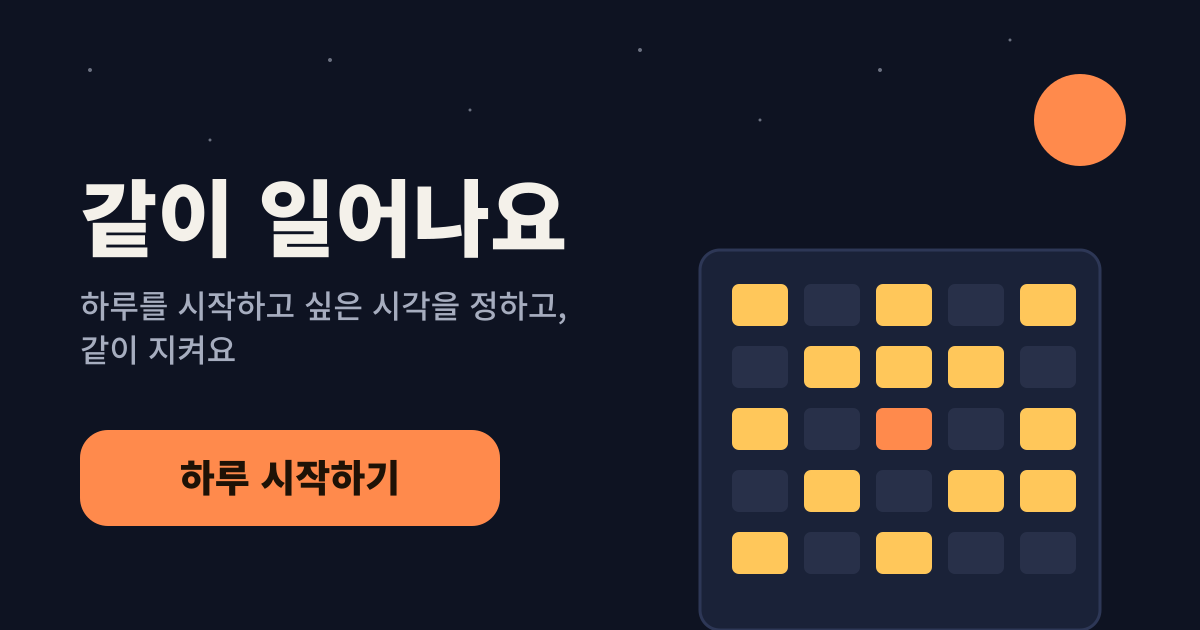
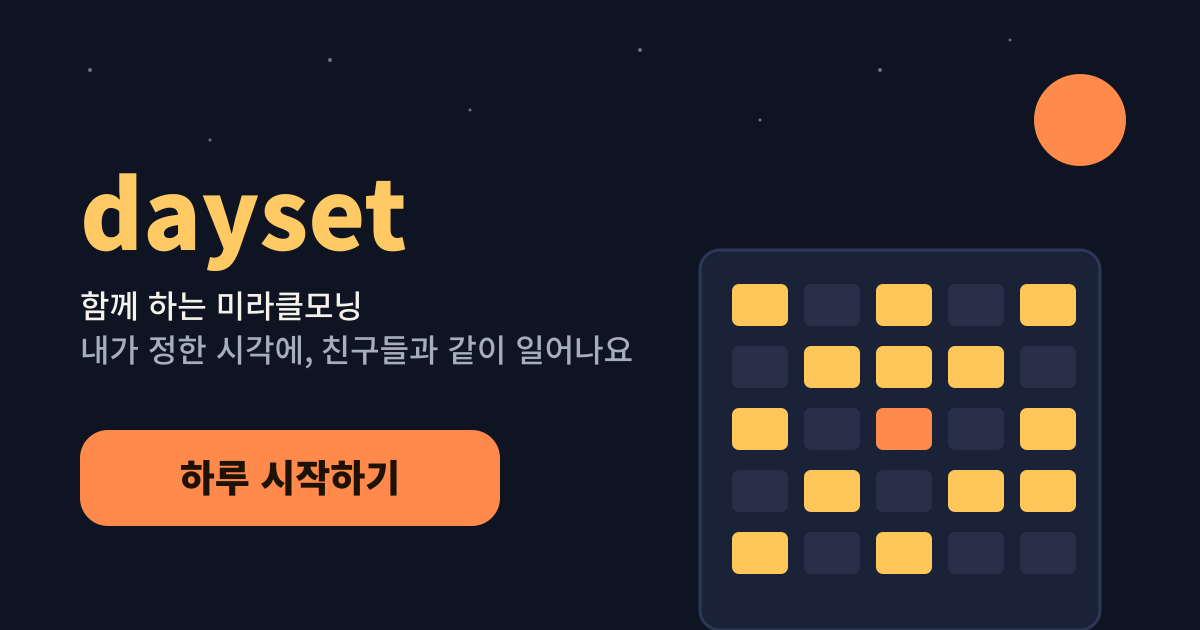
v0.11.1 브랜드: dayset - 함께 하는 미라클모닝
- 앱 제목·헤더·홈 화면 이름·공유 이미지·캘린더 알림·OG 이미지를 dayset으로
- 첫 화면에 브랜드와 한 줄 소개
- 약관·처리방침 서비스 이름 변경

Claude-Session: https://claude.ai/code/session_01YBKJpLSU4wiyWy3KokJMAZ

Changed region(s): [[0.0617, 0.2714, 0.5242, 0.6032]]

diff --git a/docs/index.html b/docs/index.html
@@ -4,12 +4,12 @@
 <meta charset="utf-8">
 <meta name="viewport" content="width=device-width, initial-scale=1">
 <meta name="theme-color" content="#0E1422">
-<meta name="description" content="하루를 시작하고 싶은 시각을 정하고, 같이 지켜요.">
-<title>같이 일어나요</title>
+<meta name="description" content="dayset · 함께 하는 미라클모닝. 내가 정한 시각에 하루를 시작하고, 친구들과 창문을 켜요.">
+<title>dayset · 함께 하는 미라클모닝</title>
 <script>window.GACHI_SITE_URL = "https://jmingyu2006-ship-it.github.io/gachi-wake/";</script>
 <meta property="og:type" content="website">
-<meta property="og:title" content="같이 일어나요">
-<meta property="og:description" content="하루를 시작하고 싶은 시각을 정하고, 같이 지켜요. 지금 몇 명의 창문에 불이 켜졌는지 보세요.">
+<meta property="og:title" content="dayset · 함께 하는 미라클모닝">
+<meta property="og:description" content="내가 정한 시각에 하루를 시작하고, 친구들과 창문을 켜요. 지금 몇 명의 창문에 불이 켜졌는지 보세요.">
 <meta property="og:url" content="https://jmingyu2006-ship-it.github.io/gachi-wake/">
 <meta property="og:image" content="https://jmingyu2006-ship-it.github.io/gachi-wake/og.png">
 <meta property="og:image:width" content="1200">
@@ -20,7 +20,7 @@
 <link rel="apple-touch-icon" href="icons/apple-touch-icon.png">
 <meta name="apple-mobile-web-app-capable" content="yes">
 <meta name="mobile-web-app-capable" content="yes">
-<meta name="apple-mobile-web-app-title" content="같이 일어나요">
+<meta name="apple-mobile-web-app-title" content="dayset">
 <meta name="apple-mobile-web-app-status-bar-style" content="black-translucent">
 <script src="config.js"></script>
 <link rel="preconnect" href="https://cdn.jsdelivr.net" crossorigin>
@@ -382,6 +382,8 @@
   header { min-height: 56px; align-items: flex-start; padding-top: 6px; }
   .brand { font-size: 21px; font-weight: 700; letter-spacing: -0.5px; }
   .brand small { font-size: 12.5px; margin-top: 3px; }
+  .ob-brand { font-size: 22px; font-weight: 800; letter-spacing: -0.6px; color: var(--lit); }
+  .ob-brand small { display: block; font-size: 13px; font-weight: 500; letter-spacing: 0; color: var(--muted); margin-top: 2px; }
   .icon-btn { border: none; background: transparent; width: 44px; height: 44px; margin-right: -10px; color: var(--ink); }
   main { gap: 16px; padding: 14px 0 20px; }
   .card { border: none; border-radius: 18px; padding: 18px; }
@@ -534,7 +536,7 @@
 <body>
 <div class="app">
   <header>
-    <div class="brand"><span id="brandTitle">같이 일어나요</span><small id="date"></small></div>
+    <div class="brand"><span id="brandTitle">dayset</span><small id="date"></small></div>
     <button type="button" class="icon-btn" id="openSettings" aria-label="설정 열기">
       <svg width="22" height="22" viewBox="0 0 24 24" fill="none" stroke="currentColor" stroke-width="1.8" stroke-linecap="round" aria-hidden="true"><circle cx="12" cy="12" r="3"/><path d="M19.4 15a1.7 1.7 0 0 0 .3 1.8l.1.1a2 2 0 1 1-2.8 2.8l-.1-.1a1.7 1.7 0 0 0-1.8-.3 1.7 1.7 0 0 0-1 1.5V21a2 2 0 1 1-4 0v-.1a1.7 1.7 0 0 0-1.1-1.5 1.7 1.7 0 0 0-1.8.3l-.1.1a2 2 0 1 1-2.8-2.8l.1-.1a1.7 1.7 0 0 0 .3-1.8 1.7 1.7 0 0 0-1.5-1H3a2 2 0 1 1 0-4h.1a1.7 1.7 0 0 0 1.5-1.1 1.7 1.7 0 0 0-.3-1.8l-.1-.1a2 2 0 1 1 2.8-2.8l.1.1a1.7 1.7 0 0 0 1.8.3H9a1.7 1.7 0 0 0 1-1.5V3a2 2 0 1 1 4 0v.1a1.7 1.7 0 0 0 1 1.5 1.7 1.7 0 0 0 1.8-.3l.1-.1a2 2 0 1 1 2.8 2.8l-.1.1a1.7 1.7 0 0 0-.3 1.8V9a1.7 1.7 0 0 0 1.5 1H21a2 2 0 1 1 0 4h-.1a1.7 1.7 0 0 0-1.5 1z"/></svg>
     </button>
@@ -1168,13 +1170,13 @@
   function icsStamp(key, min) { return key.replace(/-/g, '') + 'T' + pad2(Math.floor(min / 60)) + pad2(min % 60) + '00'; }
   function reminderIcs(s, fromKey, site, nowIso) {
     var stamp = String(nowIso || '').replace(/[-:]/g, '').replace(/\.\d+/, '').slice(0, 15) + 'Z';
-    var L = ['BEGIN:VCALENDAR', 'VERSION:2.0', 'PRODID:-//gachi-wake//ko', 'CALSCALE:GREGORIAN', 'METHOD:PUBLISH', 'X-WR-CALNAME:같이 일어나요'];
+    var L = ['BEGIN:VCALENDAR', 'VERSION:2.0', 'PRODID:-//gachi-wake//ko', 'CALSCALE:GREGORIAN', 'METHOD:PUBLISH', 'X-WR-CALNAME:dayset'];
     reminderStages(s, fromKey).forEach(function (g, i) {
       L.push('BEGIN:VEVENT', 'UID:gachi-wake-morning-' + i + '@gachi-wake', 'DTSTAMP:' + stamp,
         'DTSTART:' + icsStamp(g.start, g.min), 'DURATION:PT10M',
         'RRULE:FREQ=' + (byDay(s) ? 'WEEKLY;BYDAY=' + byDay(s) : 'DAILY') + (g.forever ? '' : ';COUNT=' + g.days),
         'SUMMARY:☀ 하루 시작 기록하기 · ' + formatMinute(g.min),
-        'DESCRIPTION:일어났으면 같이 일어나요에서 \'하루 시작하기\'를 눌러요.',
+        'DESCRIPTION:일어났으면 dayset에서 \'하루 시작\'을 눌러요.',
         site ? 'URL:' + site : 'X-NO-URL:1', 'TRANSP:TRANSPARENT',
         'BEGIN:VALARM', 'ACTION:DISPLAY', 'TRIGGER:PT0M', 'DESCRIPTION:☀ 하루 시작 기록하기', 'END:VALARM', 'END:VEVENT');
     });
@@ -1187,7 +1189,7 @@
     return 'https://calendar.google.com/calendar/render?action=TEMPLATE' +
       '&text=' + encodeURIComponent('☀ 하루 시작 기록하기') +
       '&dates=' + a + '/' + b + '&ctz=Asia%2FSeoul&recur=' + encodeURIComponent(byDay(s) ? 'RRULE:FREQ=WEEKLY;BYDAY=' + byDay(s) : 'RRULE:FREQ=DAILY') +
-      '&details=' + encodeURIComponent('일어났으면 같이 일어나요에서 \'하루 시작하기\'를 눌러요.' + (site ? '\n' + site : ''));
+      '&details=' + encodeURIComponent('일어났으면 dayset에서 \'하루 시작\'을 눌러요.' + (site ? '\n' + site : ''));
   }
   function reminderSig(s) { return s ? [s.baselineMin, s.targetMin, s.planStart, s.cur, (s.days || []).join('')].join('|') : ''; }
 
@@ -1370,7 +1372,7 @@
     crowd: null, crowdDay: null, serverOk: null, clearArmed: false, saving: Promise.resolve(), ob: null, edit: null,
     rooms: [], view: 'all', roomData: {}, roomSeen: {}, cheers: {}, nick: '', invite: null, leaveArmed: false, account: null, features: []
   };
-  var APP_VERSION = 'v0.11.0';
+  var APP_VERSION = 'v0.11.1';
   function has(f) { return state.features.indexOf(f) >= 0; }
 
   // ---------- 기기 저장 ----------
@@ -1665,7 +1667,7 @@
 
   function render() {
     var now = effectiveNow();
-    document.getElementById('brandTitle').textContent = state.tab === 'habit' ? '기록' : '같이 일어나요';
+    document.getElementById('brandTitle').textContent = state.tab === 'habit' ? '기록' : 'dayset';
     document.getElementById('date').textContent = now.toLocaleDateString('ko-KR', { month: 'long', day: 'numeric', weekday: 'long' });
     document.getElementById('trialBar').hidden = !state.trial;
     if (state.trial) document.getElementById('trialText').textContent = '체험 중 · 지금이 ' + L.formatMinute(state.trial.minute) + '라고 가정 (저장 안 함)';
@@ -2208,7 +2210,7 @@
     if (rec) { var glow = g.createRadialGradient(W / 2, H + 120, 40, W / 2, H + 120, 900); glow.addColorStop(0, 'rgba(255,138,76,.55)'); glow.addColorStop(1, 'rgba(255,138,76,0)'); g.fillStyle = glow; g.fillRect(0, 0, W, H); }
     var rnd = L.hashString ? L.hashString(key) : 7;
     for (var i = 0; i < 60; i++) { rnd = (rnd * 1103515245 + 12345) & 0x7fffffff; var sx = rnd % W; rnd = (rnd * 1103515245 + 12345) & 0x7fffffff; var sy = rnd % 700; g.fillStyle = 'rgba(244,241,234,' + (0.25 + (i % 5) / 10) + ')'; g.fillRect(sx, sy + 40, 3, 3); }
-    g.textAlign = 'left'; g.fillStyle = '#F4F1EA'; g.font = '900 46px ' + KR; g.fillText('같이 일어나요', 90, 150);
+    g.textAlign = 'left'; g.fillStyle = '#F4F1EA'; g.font = '900 46px ' + KR; g.fillText('dayset', 90, 150);
     g.fillStyle = '#A6ADBF'; g.font = '500 34px ' + KR; g.fillText(now.toLocaleDateString('ko-KR', { month: 'long', day: 'numeric', weekday: 'long' }), 90, 205);
     g.textAlign = 'center';
     if (rec) {
@@ -2276,7 +2278,7 @@
     el.querySelector('#shareImgGo').addEventListener('click', function () {
       var f = file(); if (!f) return;
       if (navigator.canShare && navigator.canShare({ files: [f] })) {
-        navigator.share({ files: [f], title: '같이 일어나요', text: '오늘도 하루 시작! ' + (siteUrl() || '') }).catch(function (e) { if (!e || e.name !== 'AbortError') save(); });
+        navigator.share({ files: [f], title: 'dayset', text: '오늘도 하루 시작! ' + (siteUrl() || '') }).catch(function (e) { if (!e || e.name !== 'AbortError') save(); });
       } else save();
     });
   }
@@ -2840,7 +2842,7 @@
     var steps = '<div class="ob-steps" aria-hidden="true">' + [0, 1, 2, 3].map(function (i) { return '<i class="' + (i <= ob.step ? 'on' : '') + '"></i>'; }).join('') + '</div>';
     var body = '', foot = '';
     if (ob.step === 0) {
-      body = '<h1 id="obTitle">하루의 시작을 정하고,<br>같이 지켜요</h1><p>알람 앱이 아니에요. 내가 정한 시각에 하루를 시작했는지 버튼 하나로 기록하는 아침 습관 앱이에요.</p>' +
+      body = '<div class="ob-brand">dayset<small>함께 하는 미라클모닝</small></div><h1 id="obTitle">하루의 시작을 정하고,<br>같이 지켜요</h1><p>알람 앱이 아니에요. 내가 정한 시각에 하루를 시작했는지 버튼 하나로 기록하는 아침 습관 앱이에요.</p>' +
         '<div class="note"><b>일찍보다 일정하게.</b> 매일 비슷한 시각에 일어나는 규칙성이 수면 시간보다 건강을 더 잘 예측했다는 연구가 있어요. 그래서 순위 대신 내 목표와 흔들림을 보여줘요.</div>' +
         '<div class="note">하루를 시작하면 내 창문에 불이 켜지고, 오늘 이미 시작한 사람들의 창문이 함께 보여요.</div>' +
         '<button type="button" class="secondary" data-ob-demo style="min-height:52px">' + SUN + ' 먼저 창문 켜 보기</button>';
@@ -3033,7 +3035,7 @@
   }
   function doShare(url, text) {
     if (navigator.share && url) {
-      navigator.share({ title: '같이 일어나요', text: text, url: url }).catch(function (e) { if (!e || e.name !== 'AbortError') copyLink(url, text); });
+      navigator.share({ title: 'dayset · 함께 하는 미라클모닝', text: text, url: url }).catch(function (e) { if (!e || e.name !== 'AbortError') copyLink(url, text); });
     } else copyLink(url, text);
   }
   function shareInvite(room) {

diff --git a/src/app.html b/src/app.html
@@ -4,8 +4,8 @@
 <meta charset="utf-8">
 <meta name="viewport" content="width=device-width, initial-scale=1">
 <meta name="theme-color" content="#0E1422">
-<meta name="description" content="하루를 시작하고 싶은 시각을 정하고, 같이 지켜요.">
-<title>같이 일어나요</title>
+<meta name="description" content="dayset · 함께 하는 미라클모닝. 내가 정한 시각에 하루를 시작하고, 친구들과 창문을 켜요.">
+<title>dayset · 함께 하는 미라클모닝</title>
 <!--__WEB_HEAD__-->
 <link rel="preconnect" href="https://cdn.jsdelivr.net" crossorigin>
 <link rel="stylesheet" href="https://cdn.jsdelivr.net/gh/orioncactus/pretendard@v1.3.9/dist/web/variable/pretendardvariable-dynamic-subset.min.css">
@@ -366,6 +366,8 @@
   header { min-height: 56px; align-items: flex-start; padding-top: 6px; }
   .brand { font-size: 21px; font-weight: 700; letter-spacing: -0.5px; }
   .brand small { font-size: 12.5px; margin-top: 3px; }
+  .ob-brand { font-size: 22px; font-weight: 800; letter-spacing: -0.6px; color: var(--lit); }
+  .ob-brand small { display: block; font-size: 13px; font-weight: 500; letter-spacing: 0; color: var(--muted); margin-top: 2px; }
   .icon-btn { border: none; background: transparent; width: 44px; height: 44px; margin-right: -10px; color: var(--ink); }
   main { gap: 16px; padding: 14px 0 20px; }
   .card { border: none; border-radius: 18px; padding: 18px; }
@@ -518,7 +520,7 @@
 <body>
 <div class="app">
   <header>
-    <div class="brand"><span id="brandTitle">같이 일어나요</span><small id="date"></small></div>
+    <div class="brand"><span id="brandTitle">dayset</span><small id="date"></small></div>
     <button type="button" class="icon-btn" id="openSettings" aria-label="설정 열기">
       <svg width="22" height="22" viewBox="0 0 24 24" fill="none" stroke="currentColor" stroke-width="1.8" stroke-linecap="round" aria-hidden="true"><circle cx="12" cy="12" r="3"/><path d="M19.4 15a1.7 1.7 0 0 0 .3 1.8l.1.1a2 2 0 1 1-2.8 2.8l-.1-.1a1.7 1.7 0 0 0-1.8-.3 1.7 1.7 0 0 0-1 1.5V21a2 2 0 1 1-4 0v-.1a1.7 1.7 0 0 0-1.1-1.5 1.7 1.7 0 0 0-1.8.3l-.1.1a2 2 0 1 1-2.8-2.8l.1-.1a1.7 1.7 0 0 0 .3-1.8 1.7 1.7 0 0 0-1.5-1H3a2 2 0 1 1 0-4h.1a1.7 1.7 0 0 0 1.5-1.1 1.7 1.7 0 0 0-.3-1.8l-.1-.1a2 2 0 1 1 2.8-2.8l.1.1a1.7 1.7 0 0 0 1.8.3H9a1.7 1.7 0 0 0 1-1.5V3a2 2 0 1 1 4 0v.1a1.7 1.7 0 0 0 1 1.5 1.7 1.7 0 0 0 1.8-.3l.1-.1a2 2 0 1 1 2.8 2.8l-.1.1a1.7 1.7 0 0 0-.3 1.8V9a1.7 1.7 0 0 0 1.5 1H21a2 2 0 1 1 0 4h-.1a1.7 1.7 0 0 0-1.5 1z"/></svg>
     </button>
@@ -558,7 +560,7 @@
     crowd: null, crowdDay: null, serverOk: null, clearArmed: false, saving: Promise.resolve(), ob: null, edit: null,
     rooms: [], view: 'all', roomData: {}, roomSeen: {}, cheers: {}, nick: '', invite: null, leaveArmed: false, account: null, features: []
   };
-  var APP_VERSION = 'v0.11.0';
+  var APP_VERSION = 'v0.11.1';
   function has(f) { return state.features.indexOf(f) >= 0; }
 
   // ---------- 기기 저장 ----------
@@ -853,7 +855,7 @@
 
   function render() {
     var now = effectiveNow();
-    document.getElementById('brandTitle').textContent = state.tab === 'habit' ? '기록' : '같이 일어나요';
+    document.getElementById('brandTitle').textContent = state.tab === 'habit' ? '기록' : 'dayset';
     document.getElementById('date').textContent = now.toLocaleDateString('ko-KR', { month: 'long', day: 'numeric', weekday: 'long' });
     document.getElementById('trialBar').hidden = !state.trial;
     if (state.trial) document.getElementById('trialText').textContent = '체험 중 · 지금이 ' + L.formatMinute(state.trial.minute) + '라고 가정 (저장 안 함)';
@@ -1396,7 +1398,7 @@
     if (rec) { var glow = g.createRadialGradient(W / 2, H + 120, 40, W / 2, H + 120, 900); glow.addColorStop(0, 'rgba(255,138,76,.55)'); glow.addColorStop(1, 'rgba(255,138,76,0)'); g.fillStyle = glow; g.fillRect(0, 0, W, H); }
     var rnd = L.hashString ? L.hashString(key) : 7;
     for (var i = 0; i < 60; i++) { rnd = (rnd * 1103515245 + 12345) & 0x7fffffff; var sx = rnd % W; rnd = (rnd * 1103515245 + 12345) & 0x7fffffff; var sy = rnd % 700; g.fillStyle = 'rgba(244,241,234,' + (0.25 + (i % 5) / 10) + ')'; g.fillRect(sx, sy + 40, 3, 3); }
-    g.textAlign = 'left'; g.fillStyle = '#F4F1EA'; g.font = '900 46px ' + KR; g.fillText('같이 일어나요', 90, 150);
+    g.textAlign = 'left'; g.fillStyle = '#F4F1EA'; g.font = '900 46px ' + KR; g.fillText('dayset', 90, 150);
     g.fillStyle = '#A6ADBF'; g.font = '500 34px ' + KR; g.fillText(now.toLocaleDateString('ko-KR', { month: 'long', day: 'numeric', weekday: 'long' }), 90, 205);
     g.textAlign = 'center';
     if (rec) {
@@ -1464,7 +1466,7 @@
     el.querySelector('#shareImgGo').addEventListener('click', function () {
       var f = file(); if (!f) return;
       if (navigator.canShare && navigator.canShare({ files: [f] })) {
-        navigator.share({ files: [f], title: '같이 일어나요', text: '오늘도 하루 시작! ' + (siteUrl() || '') }).catch(function (e) { if (!e || e.name !== 'AbortError') save(); });
+        navigator.share({ files: [f], title: 'dayset', text: '오늘도 하루 시작! ' + (siteUrl() || '') }).catch(function (e) { if (!e || e.name !== 'AbortError') save(); });
       } else save();
     });
   }
@@ -2028,7 +2030,7 @@
     var steps = '<div class="ob-steps" aria-hidden="true">' + [0, 1, 2, 3].map(function (i) { return '<i class="' + (i <= ob.step ? 'on' : '') + '"></i>'; }).join('') + '</div>';
     var body = '', foot = '';
     if (ob.step === 0) {
-      body = '<h1 id="obTitle">하루의 시작을 정하고,<br>같이 지켜요</h1><p>알람 앱이 아니에요. 내가 정한 시각에 하루를 시작했는지 버튼 하나로 기록하는 아침 습관 앱이에요.</p>' +
+      body = '<div class="ob-brand">dayset<small>함께 하는 미라클모닝</small></div><h1 id="obTitle">하루의 시작을 정하고,<br>같이 지켜요</h1><p>알람 앱이 아니에요. 내가 정한 시각에 하루를 시작했는지 버튼 하나로 기록하는 아침 습관 앱이에요.</p>' +
         '<div class="note"><b>일찍보다 일정하게.</b> 매일 비슷한 시각에 일어나는 규칙성이 수면 시간보다 건강을 더 잘 예측했다는 연구가 있어요. 그래서 순위 대신 내 목표와 흔들림을 보여줘요.</div>' +
         '<div class="note">하루를 시작하면 내 창문에 불이 켜지고, 오늘 이미 시작한 사람들의 창문이 함께 보여요.</div>' +
         '<button type="button" class="secondary" data-ob-demo style="min-height:52px">' + SUN + ' 먼저 창문 켜 보기</button>';
@@ -2221,7 +2223,7 @@
   }
   function doShare(url, text) {
     if (navigator.share && url) {
-      navigator.share({ title: '같이 일어나요', text: text, url: url }).catch(function (e) { if (!e || e.name !== 'AbortError') copyLink(url, text); });
+      navigator.share({ title: 'dayset · 함께 하는 미라클모닝', text: text, url: url }).catch(function (e) { if (!e || e.name !== 'AbortError') copyLink(url, text); });
     } else copyLink(url, text);
   }
   function shareInvite(room) {

diff --git a/src/logic.js b/src/logic.js
@@ -610,13 +610,13 @@
   function icsStamp(key, min) { return key.replace(/-/g, '') + 'T' + pad2(Math.floor(min / 60)) + pad2(min % 60) + '00'; }
   function reminderIcs(s, fromKey, site, nowIso) {
     var stamp = String(nowIso || '').replace(/[-:]/g, '').replace(/\.\d+/, '').slice(0, 15) + 'Z';
-    var L = ['BEGIN:VCALENDAR', 'VERSION:2.0', 'PRODID:-//gachi-wake//ko', 'CALSCALE:GREGORIAN', 'METHOD:PUBLISH', 'X-WR-CALNAME:같이 일어나요'];
+    var L = ['BEGIN:VCALENDAR', 'VERSION:2.0', 'PRODID:-//gachi-wake//ko', 'CALSCALE:GREGORIAN', 'METHOD:PUBLISH', 'X-WR-CALNAME:dayset'];
     reminderStages(s, fromKey).forEach(function (g, i) {
       L.push('BEGIN:VEVENT', 'UID:gachi-wake-morning-' + i + '@gachi-wake', 'DTSTAMP:' + stamp,
         'DTSTART:' + icsStamp(g.start, g.min), 'DURATION:PT10M',
         'RRULE:FREQ=' + (byDay(s) ? 'WEEKLY;BYDAY=' + byDay(s) : 'DAILY') + (g.forever ? '' : ';COUNT=' + g.days),
         'SUMMARY:☀ 하루 시작 기록하기 · ' + formatMinute(g.min),
-        'DESCRIPTION:일어났으면 같이 일어나요에서 \'하루 시작하기\'를 눌러요.',
+        'DESCRIPTION:일어났으면 dayset에서 \'하루 시작\'을 눌러요.',
         site ? 'URL:' + site : 'X-NO-URL:1', 'TRANSP:TRANSPARENT',
         'BEGIN:VALARM', 'ACTION:DISPLAY', 'TRIGGER:PT0M', 'DESCRIPTION:☀ 하루 시작 기록하기', 'END:VALARM', 'END:VEVENT');
     });
@@ -629,7 +629,7 @@
     return 'https://calendar.google.com/calendar/render?action=TEMPLATE' +
       '&text=' + encodeURIComponent('☀ 하루 시작 기록하기') +
       '&dates=' + a + '/' + b + '&ctz=Asia%2FSeoul&recur=' + encodeURIComponent(byDay(s) ? 'RRULE:FREQ=WEEKLY;BYDAY=' + byDay(s) : 'RRULE:FREQ=DAILY') +
-      '&details=' + encodeURIComponent('일어났으면 같이 일어나요에서 \'하루 시작하기\'를 눌러요.' + (site ? '\n' + site : ''));
+      '&details=' + encodeURIComponent('일어났으면 dayset에서 \'하루 시작\'을 눌러요.' + (site ? '\n' + site : ''));
   }
   function reminderSig(s) { return s ? [s.baselineMin, s.targetMin, s.planStart, s.cur, (s.days || []).join('')].join('|') : ''; }
 

diff --git a/build.js b/build.js
@@ -16,8 +16,8 @@ const esc = (s) => s.replace(/&/g, '&amp;').replace(/"/g, '&quot;').replace(/</g
 const SITE_HEAD = SITE_URL ? [
   `<script>window.GACHI_SITE_URL = ${JSON.stringify(SITE_URL)};</script>`,
   `<meta property="og:type" content="website">`,
-  `<meta property="og:title" content="같이 일어나요">`,
-  `<meta property="og:description" content="하루를 시작하고 싶은 시각을 정하고, 같이 지켜요. 지금 몇 명의 창문에 불이 켜졌는지 보세요.">`,
+  `<meta property="og:title" content="dayset · 함께 하는 미라클모닝">`,
+  `<meta property="og:description" content="내가 정한 시각에 하루를 시작하고, 친구들과 창문을 켜요. 지금 몇 명의 창문에 불이 켜졌는지 보세요.">`,
   `<meta property="og:url" content="${esc(SITE_URL)}">`,
   `<meta property="og:image" content="${esc(SITE_URL)}og.png">`,
   `<meta property="og:image:width" content="1200">`,
@@ -33,7 +33,7 @@ const WEB_HEAD = [
   '<link rel="apple-touch-icon" href="icons/apple-touch-icon.png">',
   '<meta name="apple-mobile-web-app-capable" content="yes">',
   '<meta name="mobile-web-app-capable" content="yes">',
-  '<meta name="apple-mobile-web-app-title" content="같이 일어나요">',
+  '<meta name="apple-mobile-web-app-title" content="dayset">',
   '<meta name="apple-mobile-web-app-status-bar-style" content="black-translucent">',
   '<script src="config.js"></script>'
 ].join('\n');

diff --git a/docs/privacy.html b/docs/privacy.html
@@ -4,7 +4,7 @@
 <meta charset="utf-8">
 <meta name="viewport" content="width=device-width, initial-scale=1, viewport-fit=cover">
 <meta name="theme-color" content="#0E1322">
-<title>개인정보 처리방침 · 같이 일어나요</title>
+<title>개인정보 처리방침 · dayset</title>
 <link rel="stylesheet" href="legal.css">
 </head>
 <body>
@@ -90,7 +90,7 @@
 <p>쿠키는 쓰지 않아요. 브라우저 저장소(localStorage)에 설정·기록·무작위 기기 번호를 저장해요. 브라우저 설정에서 사이트 데이터를 지우면 함께 지워져요. 단, 계정에 보관하지 않은 기록은 되살릴 수 없어요.</p>
 
 <h2>8. 개인정보 보호책임자와 연락처</h2>
-<p>운영: 같이 일어나요 (개인 운영)<br>
+<p>운영: dayset (개인 운영)<br>
 개인정보 보호책임자: 운영자<br>
 연락처: 앱 설정의 '의견·문의 보내기' 또는 <span data-contact><a href="https://github.com/jmingyu2006-ship-it/gachi-wake/issues" target="_blank" rel="noopener">GitHub 문의 게시판</a> (공개 게시판이니 개인정보는 적지 마세요)</span></p>
 <p class="small">개인정보 침해 상담: 개인정보침해신고센터(국번 없이 118, privacy.kisa.or.kr), 개인정보분쟁조정위원회(1833-6972, kopico.go.kr)</p>

diff --git a/web/privacy.html b/web/privacy.html
@@ -4,7 +4,7 @@
 <meta charset="utf-8">
 <meta name="viewport" content="width=device-width, initial-scale=1, viewport-fit=cover">
 <meta name="theme-color" content="#0E1322">
-<title>개인정보 처리방침 · 같이 일어나요</title>
+<title>개인정보 처리방침 · dayset</title>
 <link rel="stylesheet" href="legal.css">
 </head>
 <body>
@@ -90,7 +90,7 @@
 <p>쿠키는 쓰지 않아요. 브라우저 저장소(localStorage)에 설정·기록·무작위 기기 번호를 저장해요. 브라우저 설정에서 사이트 데이터를 지우면 함께 지워져요. 단, 계정에 보관하지 않은 기록은 되살릴 수 없어요.</p>
 
 <h2>8. 개인정보 보호책임자와 연락처</h2>
-<p>운영: 같이 일어나요 (개인 운영)<br>
+<p>운영: dayset (개인 운영)<br>
 개인정보 보호책임자: 운영자<br>
 연락처: 앱 설정의 '의견·문의 보내기' 또는 <span data-contact><a href="https://github.com/jmingyu2006-ship-it/gachi-wake/issues" target="_blank" rel="noopener">GitHub 문의 게시판</a> (공개 게시판이니 개인정보는 적지 마세요)</span></p>
 <p class="small">개인정보 침해 상담: 개인정보침해신고센터(국번 없이 118, privacy.kisa.or.kr), 개인정보분쟁조정위원회(1833-6972, kopico.go.kr)</p>

diff --git a/docs/terms.html b/docs/terms.html
@@ -4,7 +4,7 @@
 <meta charset="utf-8">
 <meta name="viewport" content="width=device-width, initial-scale=1, viewport-fit=cover">
 <meta name="theme-color" content="#0E1322">
-<title>이용약관 · 같이 일어나요</title>
+<title>이용약관 · dayset</title>
 <link rel="stylesheet" href="legal.css">
 </head>
 <body>
@@ -14,7 +14,7 @@
 <p class="meta">시행일 2026년 11월 8일 · 버전 1</p>
 
 <h2>1. 서비스</h2>
-<p>'같이 일어나요'(이하 서비스)는 하루를 시작하고 싶은 시각을 정하고 실제로 시작한 시각을 기록하는 무료 아침 습관 앱이에요. 개인이 운영해요. 알람 앱이 아니어서 사용자를 깨우지 않아요.</p>
+<p>'dayset(데이셋) - 함께 하는 미라클모닝'(이하 서비스)는 하루를 시작하고 싶은 시각을 정하고 실제로 시작한 시각을 기록하는 무료 아침 습관 앱이에요. 개인이 운영해요. 알람 앱이 아니어서 사용자를 깨우지 않아요.</p>
 
 <h2>2. 이용 조건</h2>
 <ul>

diff --git a/web/terms.html b/web/terms.html
@@ -4,7 +4,7 @@
 <meta charset="utf-8">
 <meta name="viewport" content="width=device-width, initial-scale=1, viewport-fit=cover">
 <meta name="theme-color" content="#0E1322">
-<title>이용약관 · 같이 일어나요</title>
+<title>이용약관 · dayset</title>
 <link rel="stylesheet" href="legal.css">
 </head>
 <body>
@@ -14,7 +14,7 @@
 <p class="meta">시행일 2026년 11월 8일 · 버전 1</p>
 
 <h2>1. 서비스</h2>
-<p>'같이 일어나요'(이하 서비스)는 하루를 시작하고 싶은 시각을 정하고 실제로 시작한 시각을 기록하는 무료 아침 습관 앱이에요. 개인이 운영해요. 알람 앱이 아니어서 사용자를 깨우지 않아요.</p>
+<p>'dayset(데이셋) - 함께 하는 미라클모닝'(이하 서비스)는 하루를 시작하고 싶은 시각을 정하고 실제로 시작한 시각을 기록하는 무료 아침 습관 앱이에요. 개인이 운영해요. 알람 앱이 아니어서 사용자를 깨우지 않아요.</p>
 
 <h2>2. 이용 조건</h2>
 <ul>

diff --git a/docs/sw.js b/docs/sw.js
@@ -1,6 +1,6 @@
 // 같이 일어나요 — 오프라인에서도 앱이 열리게 하는 서비스 워커
 // 앱 파일을 바꿔 배포할 때는 VERSION을 올려 주세요.
-const VERSION = 'gachi-v0.11.0';
+const VERSION = 'gachi-v0.11.1';
 const SHELL = ['./', './index.html', './manifest.webmanifest', './config.js', './icons/icon-192.png', './icons/icon-512.png', './og.png'];
 
 self.addEventListener('install', (e) => {
@@ -53,7 +53,7 @@ function staleWhileRevalidate(req) {
 self.addEventListener('push', (e) => {
   let d = {};
   try { d = e.data ? e.data.json() : {}; } catch (x) { d = { body: e.data ? e.data.text() : '' }; }
-  const title = String(d.title || '같이 일어나요').slice(0, 80);
+  const title = String(d.title || 'dayset').slice(0, 80);
   e.waitUntil(self.registration.showNotification(title, {
     body: String(d.body || '').slice(0, 200),
     tag: String(d.tag || 'gachi'),

diff --git a/web/sw.js b/web/sw.js
@@ -1,6 +1,6 @@
 // 같이 일어나요 — 오프라인에서도 앱이 열리게 하는 서비스 워커
 // 앱 파일을 바꿔 배포할 때는 VERSION을 올려 주세요.
-const VERSION = 'gachi-v0.11.0';
+const VERSION = 'gachi-v0.11.1';
 const SHELL = ['./', './index.html', './manifest.webmanifest', './config.js', './icons/icon-192.png', './icons/icon-512.png', './og.png'];
 
 self.addEventListener('install', (e) => {
@@ -53,7 +53,7 @@ function staleWhileRevalidate(req) {
 self.addEventListener('push', (e) => {
   let d = {};
   try { d = e.data ? e.data.json() : {}; } catch (x) { d = { body: e.data ? e.data.text() : '' }; }
-  const title = String(d.title || '같이 일어나요').slice(0, 80);
+  const title = String(d.title || 'dayset').slice(0, 80);
   e.waitUntil(self.registration.showNotification(title, {
     body: String(d.body || '').slice(0, 200),
     tag: String(d.tag || 'gachi'),

diff --git a/test/logic.test.js b/test/logic.test.js
@@ -324,7 +324,7 @@ test('아침 알림: 단계 목표별 일정, 75바이트 줄 접기, 구글 링
   const un = ics.replace(/\r\n /g, '');
   assert.match(un, /^BEGIN:VCALENDAR\r\n/); assert.match(un, /END:VCALENDAR\r\n$/);
   assert.match(un, /DTSTAMP:20261108T055012Z/);
-  assert.match(un, /DESCRIPTION:일어났으면 같이 일어나요에서 '하루 시작하기'를 눌러요\./);
+  assert.match(un, /DESCRIPTION:일어났으면 dayset에서 '하루 시작'을 눌러요\./);
   assert.equal((un.match(/BEGIN:VALARM/g) || []).length, 4);
   assert.match(L.googleReminderUrl(flat, '2026-11-09', ''), /dates=20261109T070000\/20261109T071000&ctz=Asia%2FSeoul&recur=RRULE%3AFREQ%3DDAILY/);
   assert.notEqual(L.reminderSig(s), L.reminderSig(flat));
